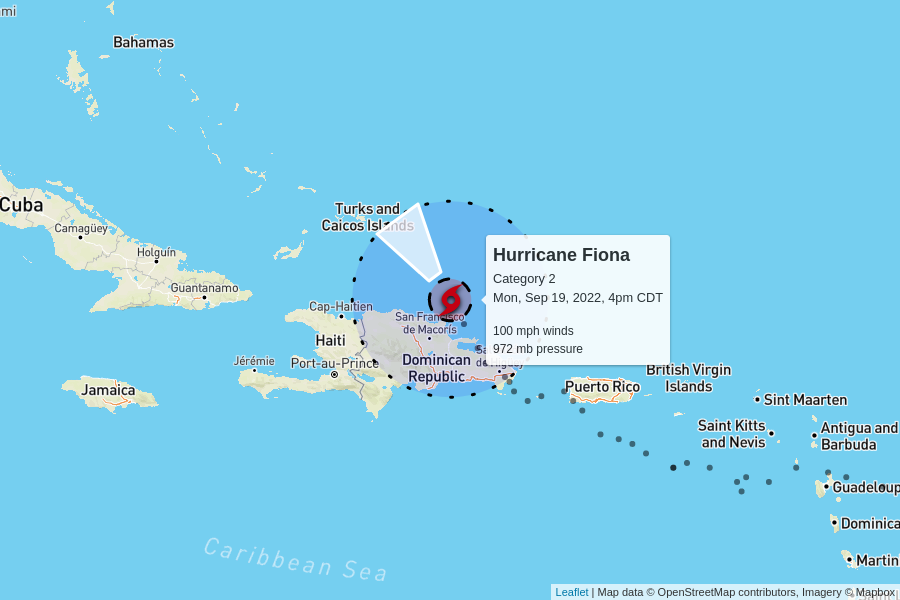
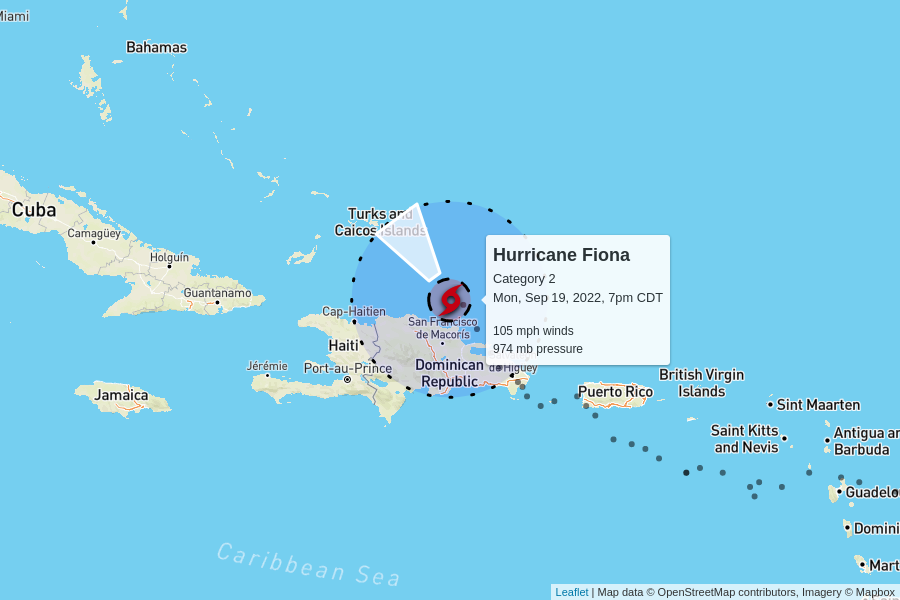
automatic update

diff --git a/docs/index.html b/docs/index.html
@@ -100,7 +100,7 @@
         <td colspan="6" class="storm category-2" >
           <h2>
             Hurricane Fiona - Category 2
-            <p class="updated">last updated <span data-time>2022-09-19T21:00:00.000Z</span></p>
+            <p class="updated">last updated <span data-time>2022-09-20T00:00:00.000Z</span></p>
           </h2>
         </td>
       </tr>
@@ -115,8 +115,8 @@
       </tr>
       <tr>
         <td class="spacer"></td>
-        <td>100 mph</td>
-        <td>972 mb</td>
+        <td>105 mph</td>
+        <td>974 mb</td>
         <td>
           10 mph to the northwest
           <br/>
